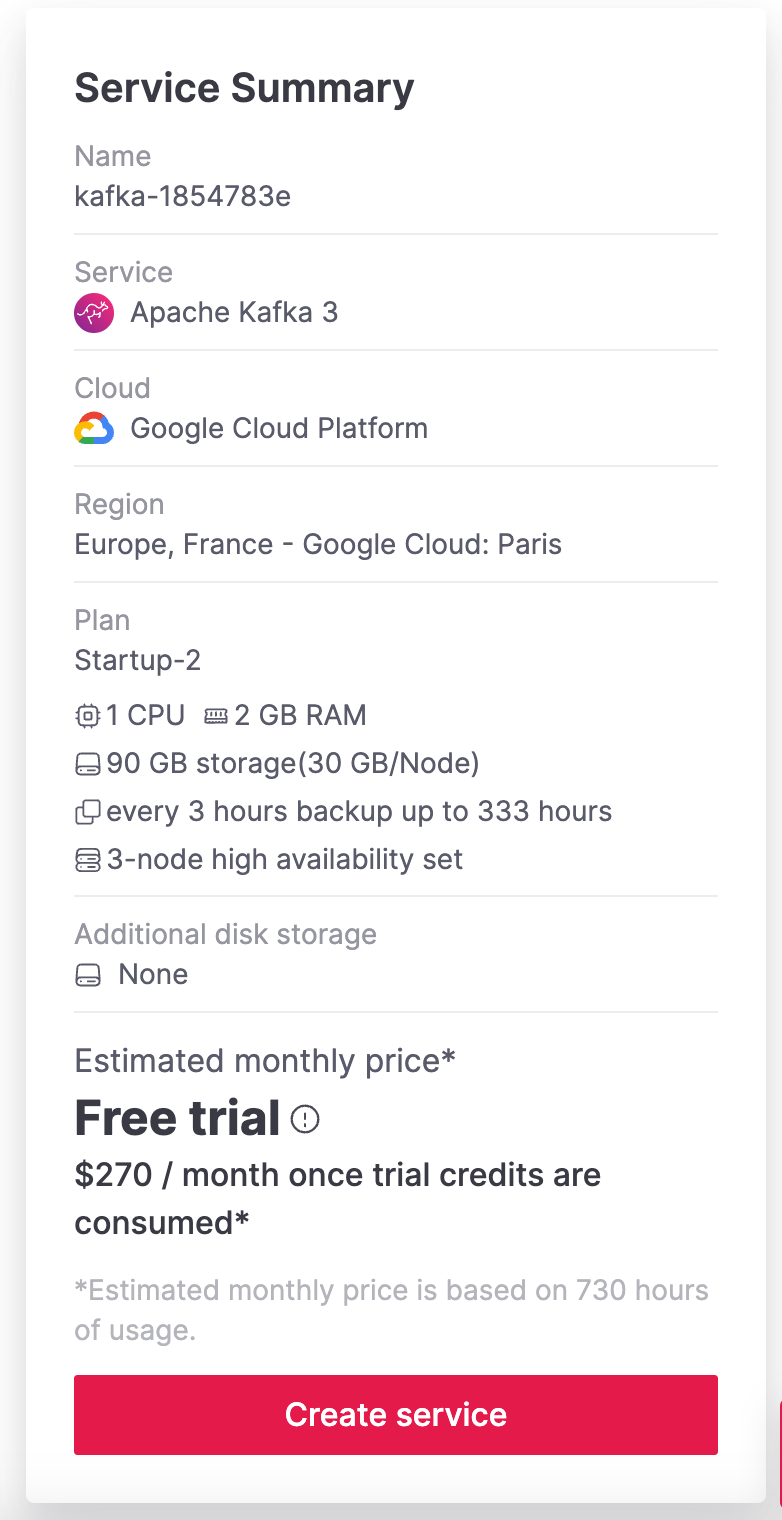
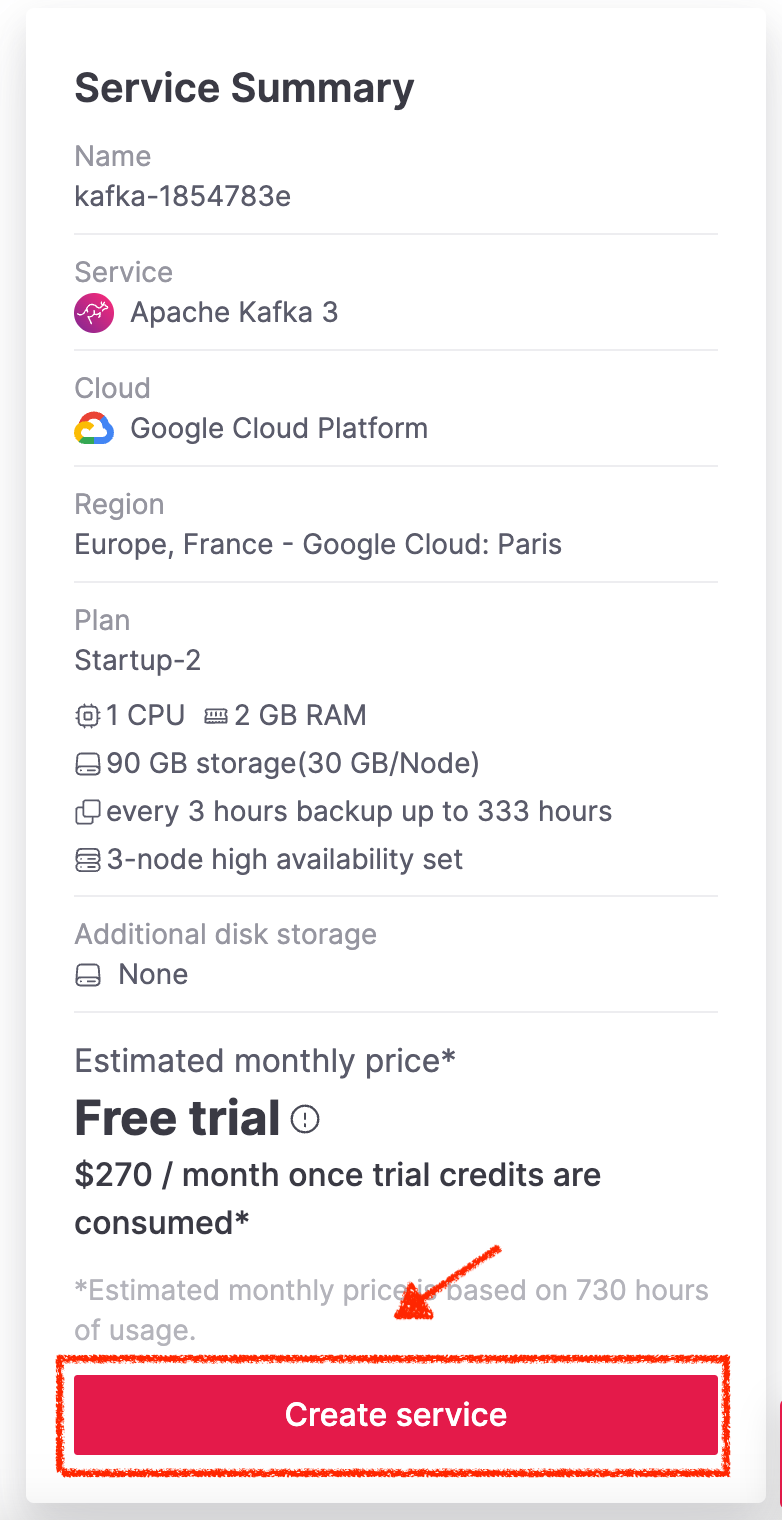
Added notes in screenshots

Changed region(s): [[0.0614, 0.8039, 0.9514, 0.9895]]

diff --git a/README.md b/README.md
@@ -24,7 +24,8 @@ Before you begin, make sure you have the following:
 ![select kafka](images/select-kafka.png)
 4. Choose the desired `cloud provider`, `service region`, and `service plan` for your Kafka service
 5. Provide the name of the service (e.g. kafka-xxxxx) and click `Create Service`
-![create kafka](images/create-kafka.png)
+<img src="images/create-kafka.png" width="350">
+
 6. Your Aiven Kafka Service is now provisionned. Please save the `Connection information`. We will use them later.
 ![kafka service up](images/kafka-service-up.png)
 
@@ -33,7 +34,8 @@ Before you begin, make sure you have the following:
 1. From your Kafka service details, click on `Topics` tab and click on `Add topic`.
 ![add topic](images/add-topic.png)
 2. Provide the name of the topic (e.g. event-sample) and click `Add topic`
-![add topic name](images/add-topic-name.png)
+<img src="images/add-topic-name.png" width="500">
+
 3. Your topic is now ready to receive data!
 ![topic overview](images/topic-overview.png)
 
